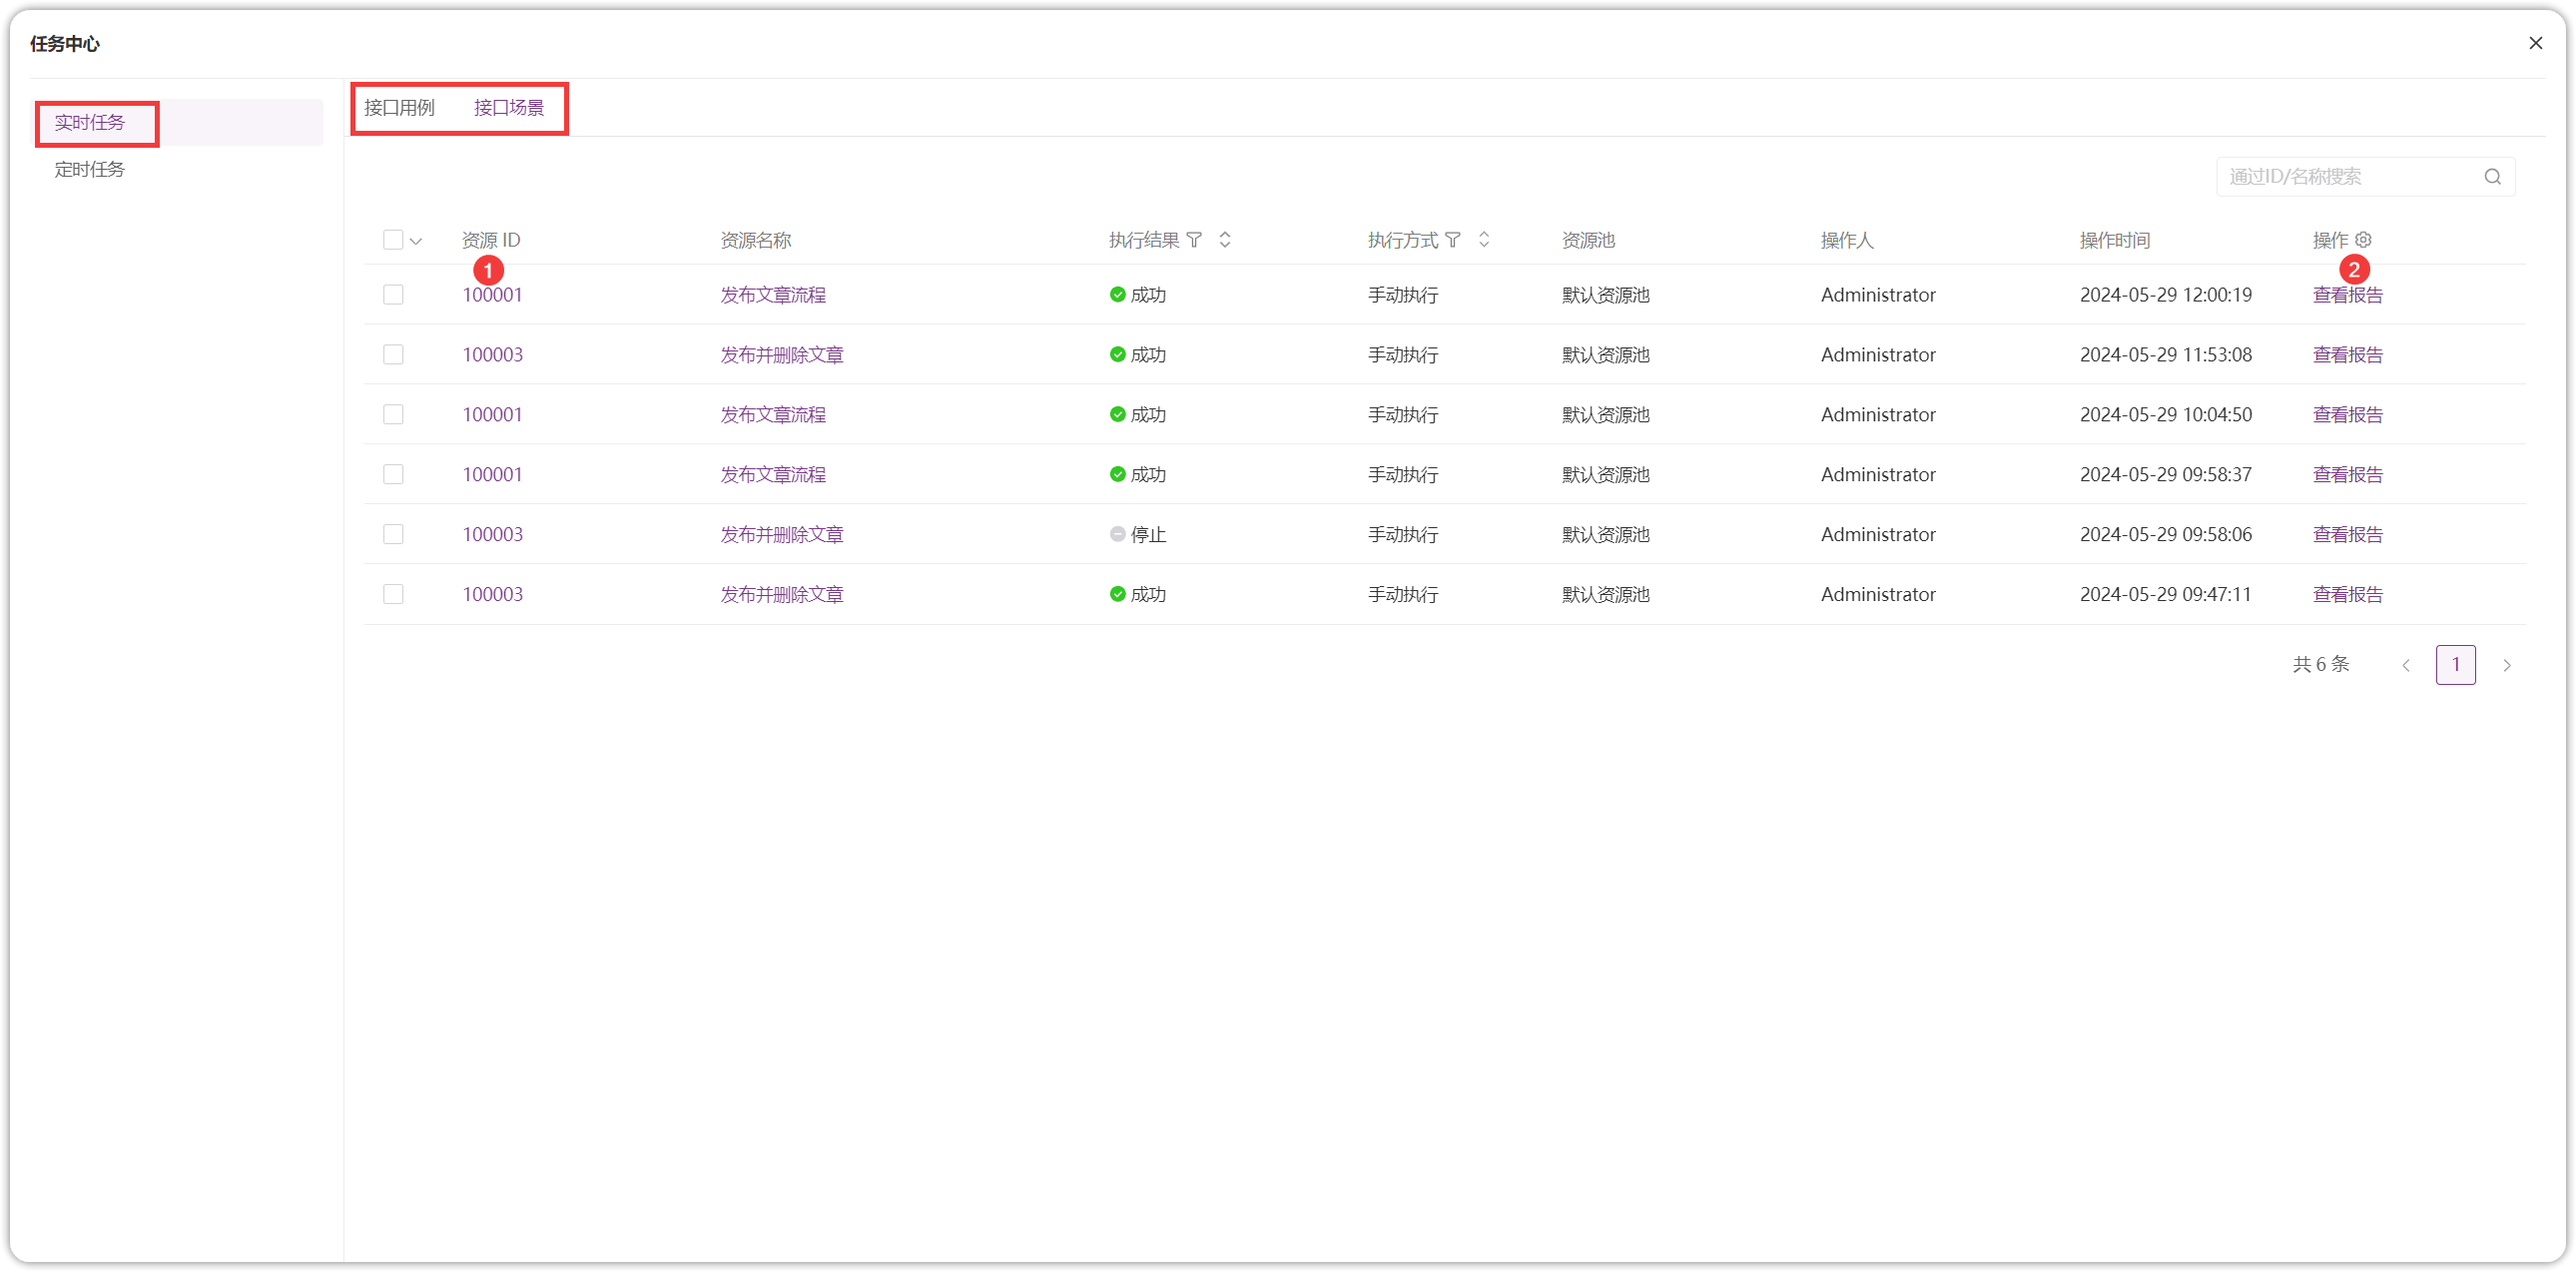
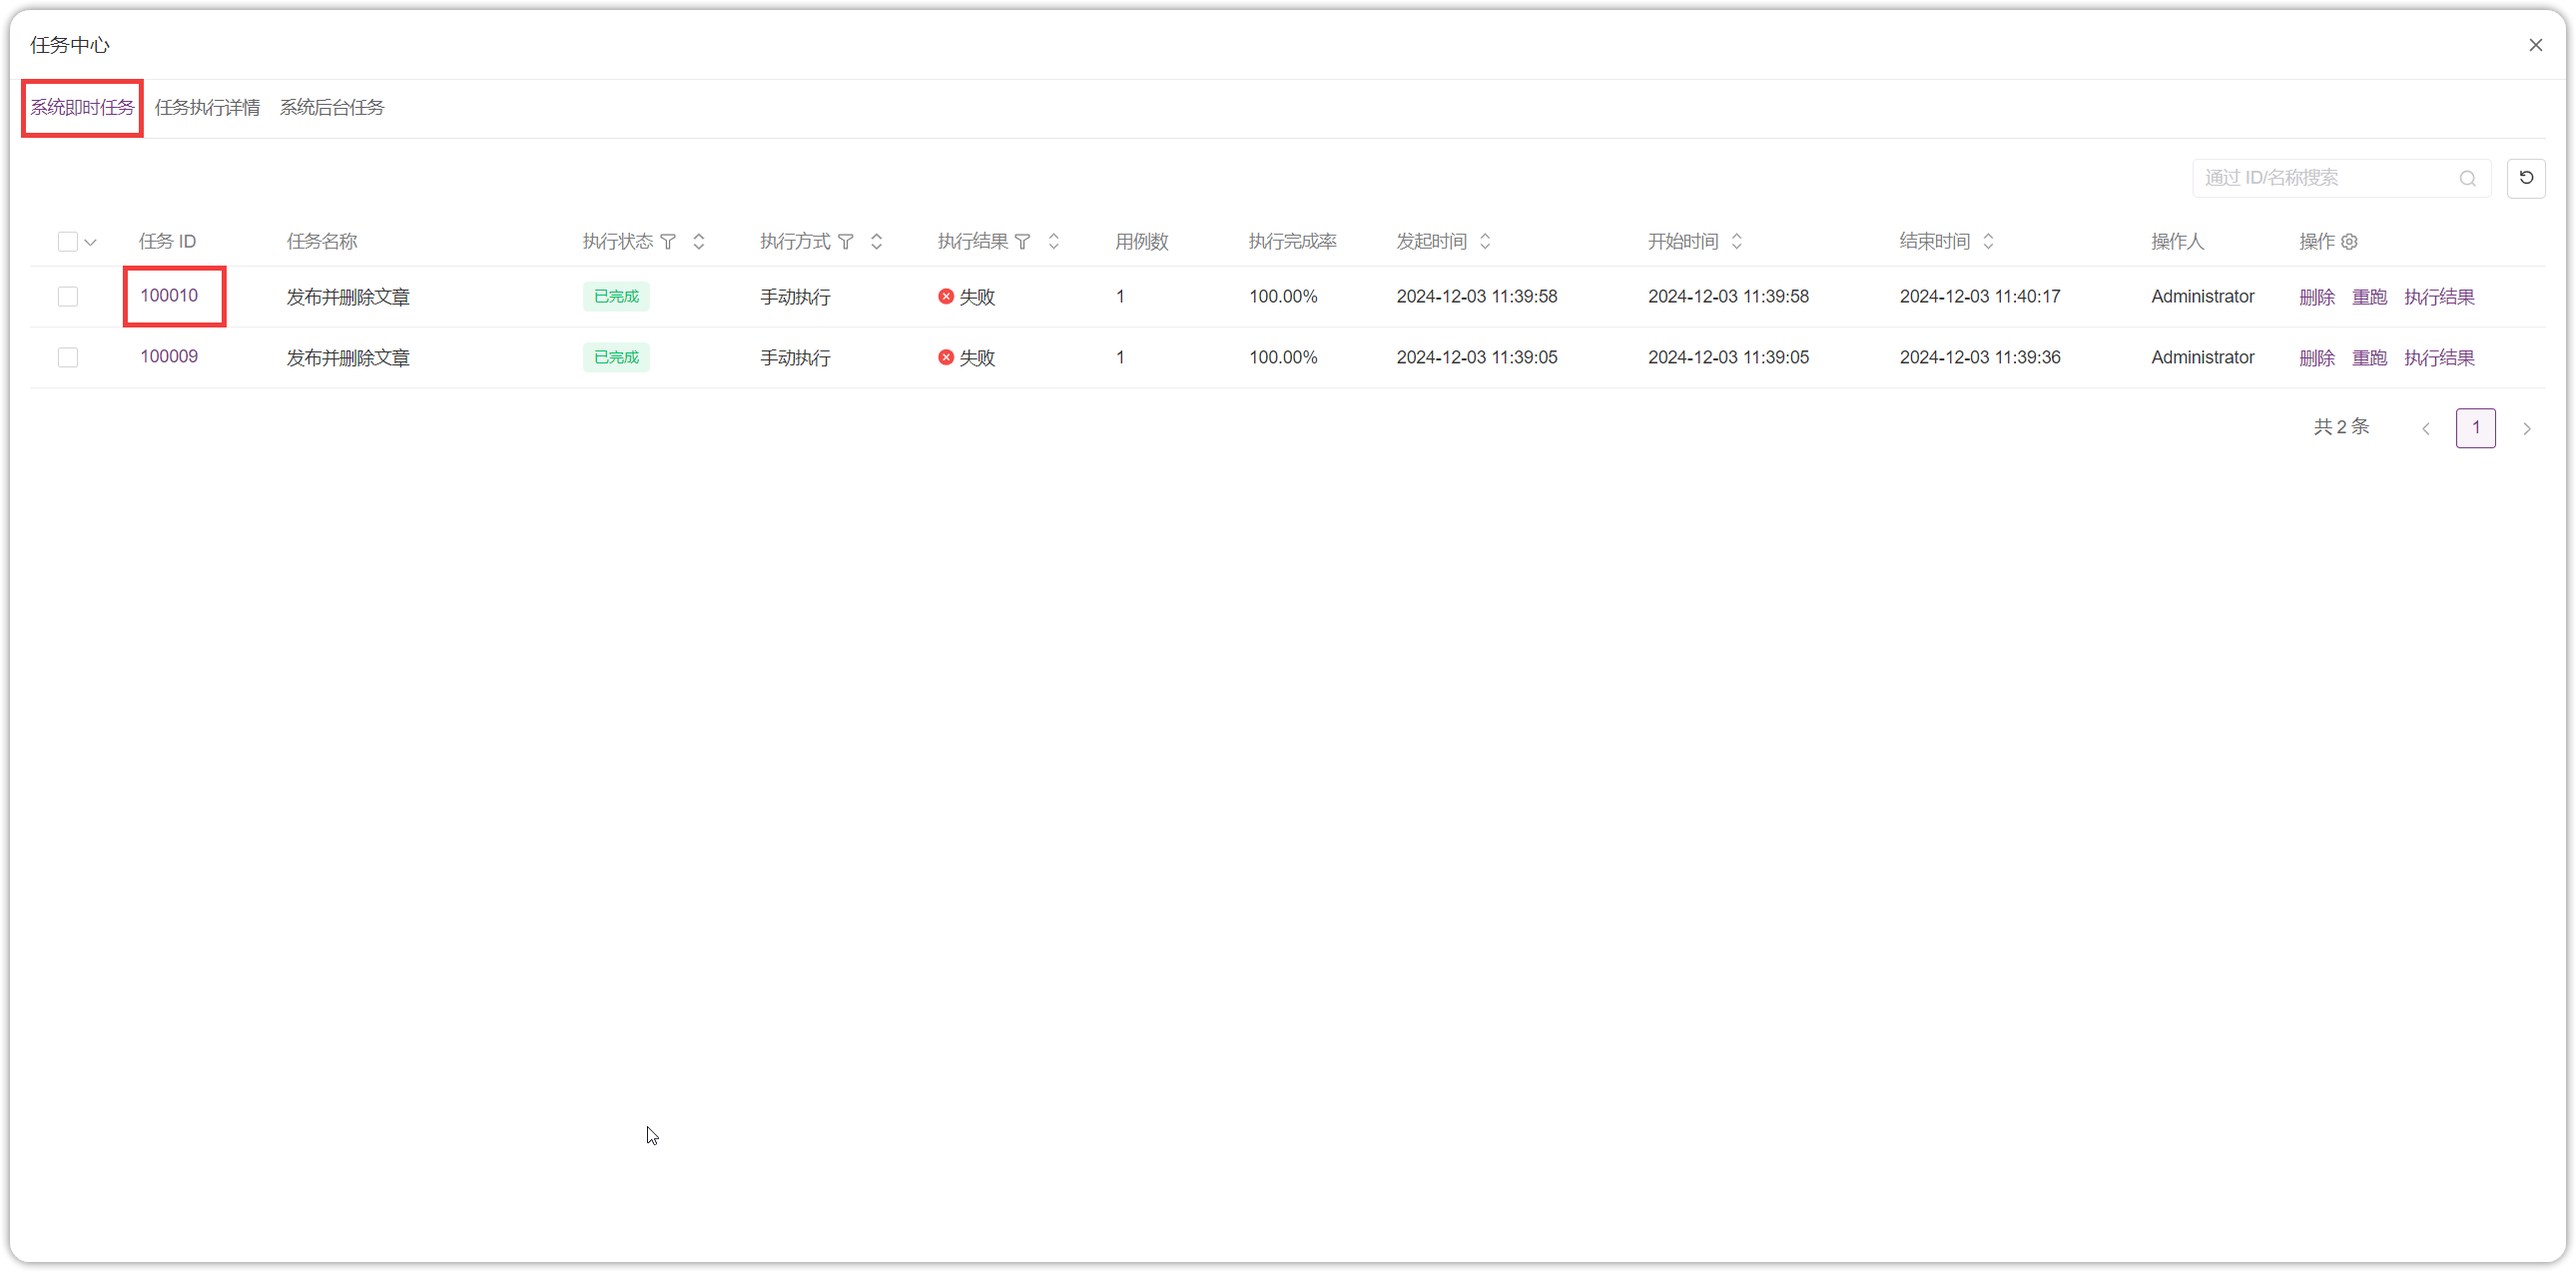
modified: 任务中心

diff --git a/docs/user_manual/general.md b/docs/user_manual/general.md
@@ -117,15 +117,25 @@
     点击右上角【任务中心】图标，查看【实时任务】、【定时任务】列表。
 ![!任务中心](../img/general/任务中心1.png){ width="900px" }    
 
-### 6.1 实时任务
+### 6.1 系统即时任务
 !!! ms-abstract ""
-    点击【实时任务】查看运行中的【接口用例】和【接口场景】任务，点击【资源ID】查看用例详情，点击【查看报告】查看报告详情。
+    点击【系统即时任务】查看运行中的【接口用例】和【接口场景】任务，点击【任务ID】查看用例详情，点击【执行结果】查看报告详情。
 ![!消息通知](../img/general/实时任务.png){ width="900px" }
 
-### 6.2 定时任务
 !!! ms-abstract ""
-    点击【定时任务】查看【接口场景】和【API导入】的定时任务，点击【资源ID】查看用例详情，点击【操作】开启/关闭定时任务，点击【删除】按钮删除定时任务。
-![!消息通知](../img/general/定时任务.png){ width="900px" }
+    失败用例或场景支持一键失败重跑。
+![!消息通知](../img/general/一键重跑.png){ width="900px" }
+
+
+### 6.2 任务执行详情
+!!! ms-abstract ""
+    点击【任务执行详情】查看运行中的任务的详细情况和执行结果。
+![!消息通知](../img/general/任务执行详情.png){ width="900px" }
+
+### 6.3 系统后台任务
+!!! ms-abstract ""
+    点击【系统后台任务】查看定时任务，点击【任务ID】查看用例详情，可开启/关闭定时任务，点击【删除】按钮删除定时任务。
+![!消息通知](../img/general/系统后台任务.png){ width="900px" }
 
 ## 7 帮助中心
 !!! ms-abstract ""
